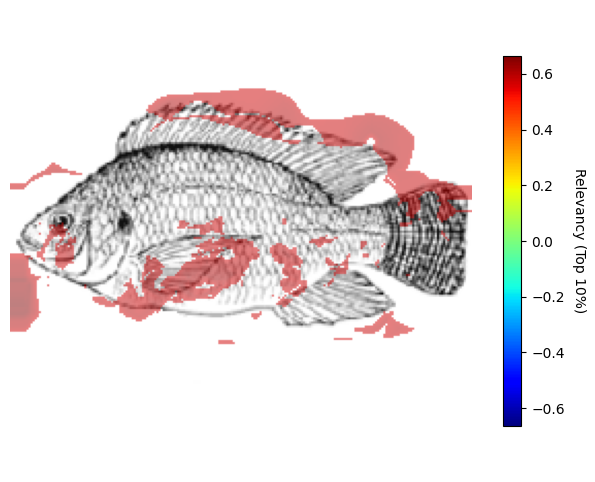
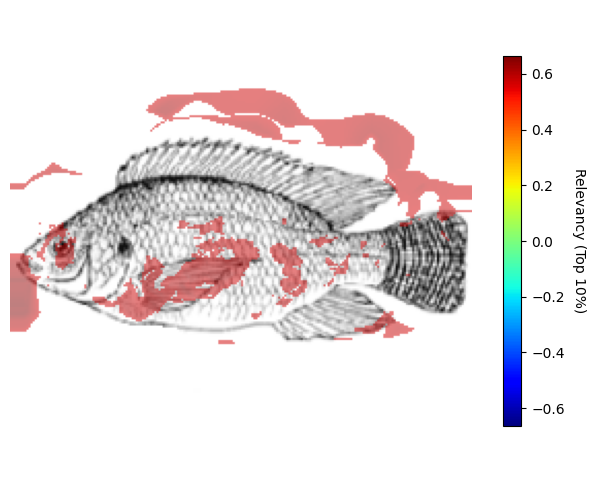
small changes. Modified fish sketch to better fit median dimensions

Changed region(s): [[0.0303, 0.1867, 0.7866, 0.7158]]

diff --git a/code/test.py b/code/test.py
@@ -1,18 +1,174 @@
 import os
-import shutil
+import numpy as np
+from PIL import Image
+import matplotlib.pyplot as plt
 from pathlib import Path
 
-# Move all files from subfolders to parent folder
-data_path = Path("/home/julian/Documents/Spezialisierung/SPEZ/data/animal_data")
-
-for file_path in data_path.rglob("*"):
-    if file_path.is_file() and file_path.parent != data_path:
-        shutil.move(str(file_path), str(data_path / file_path.name))
-
-# Remove empty subdirectories
-for dir_path in data_path.iterdir():
-    if dir_path.is_dir():
+def overlay_all_images(folder_path, output_path=None, target_size=(224, 224), blend_mode='average'):
+    """
+    Overlay all images in a folder into one single image.
+    
+    Args:
+        folder_path: Path to folder containing images
+        output_path: Path to save overlayed image (optional)
+        target_size: Size to resize all images to (width, height)
+        blend_mode: 'average', 'multiply', 'screen', or 'max'
+    
+    Returns:
+        PIL Image object of the overlayed image
+    """
+    folder_path = Path(folder_path)
+    
+    # Get all image files
+    image_extensions = {'.jpg', '.jpeg', '.png', '.bmp', '.tiff', '.gif'}
+    image_files = [f for f in folder_path.iterdir() 
+                   if f.suffix.lower() in image_extensions]
+    
+    if not image_files:
+        print("No image files found!")
+        return None
+    
+    print(f"Found {len(image_files)} images")
+    
+    # Load and resize images
+    images = []
+    for img_path in sorted(image_files):
         try:
-            dir_path.rmdir()  # Only removes if empty
-        except OSError:
-            pass  # Directory not empty, skip
+            img = Image.open(img_path)
+            # Convert to RGB if needed
+            if img.mode != 'RGB':
+                img = img.convert('RGB')
+            # Resize to target size
+            img = img.resize(target_size, Image.Resampling.LANCZOS)
+            images.append(np.array(img))
+            print(f"Loaded: {img_path.name}")
+        except Exception as e:
+            print(f"Error loading {img_path.name}: {e}")
+    
+    if not images:
+        print("No valid images loaded!")
+        return None
+    
+    # Stack all images
+    image_stack = np.stack(images, axis=0)  # Shape: (num_images, height, width, 3)
+    
+    # Apply blending mode
+    if blend_mode == 'average':
+        overlayed = np.mean(image_stack, axis=0)
+    elif blend_mode == 'multiply':
+        overlayed = np.prod(image_stack / 255.0, axis=0) * 255
+    elif blend_mode == 'screen':
+        # Screen blend: 1 - (1-a) * (1-b)
+        normalized = image_stack / 255.0
+        result = 1.0
+        for img in normalized:
+            result = result * (1.0 - img) 
+        overlayed = (1.0 - result) * 255
+    elif blend_mode == 'max':
+        overlayed = np.max(image_stack, axis=0)
+    else:
+        overlayed = np.mean(image_stack, axis=0)
+    
+    # Convert back to PIL Image
+    overlayed = np.clip(overlayed, 0, 255).astype(np.uint8)
+    result_img = Image.fromarray(overlayed)
+    
+    # Save if output path provided
+    if output_path:
+        result_img.save(output_path, 'PNG', dpi=(300, 300))
+        print(f"Overlayed image saved to: {output_path}")
+    
+    print(f"Successfully overlayed {len(images)} images using {blend_mode} blend mode")
+    return result_img
+
+def combine_with_red_overlay(fish_image, overlay_image_path, output_path=None, alpha=0.5, red_intensity=255):
+    """
+    Combine a fish image with another image that's converted to red overlay.
+    
+    Args:
+        fish_image: PIL Image object of the fish (from overlay_all_images)
+        overlay_image_path: Path to the image to convert to red overlay
+        output_path: Path to save combined image (optional)
+        alpha: Transparency of red overlay (0.0 to 1.0)
+        red_intensity: Intensity of red color (0 to 255)
+    
+    Returns:
+        PIL Image object of the combined image
+    """
+    try:
+        # Load the overlay image
+        overlay_img = Image.open(overlay_image_path)
+        
+        # Convert to RGB if needed
+        if overlay_img.mode != 'RGB':
+            overlay_img = overlay_img.convert('RGB')
+        
+        # Resize overlay to match fish image size
+        overlay_img = overlay_img.resize(fish_image.size, Image.Resampling.LANCZOS)
+        
+        # Convert images to numpy arrays
+        fish_array = np.array(fish_image)
+        overlay_array = np.array(overlay_img)
+        
+        # Convert overlay to grayscale for intensity mapping
+        overlay_gray = np.mean(overlay_array, axis=2)
+        
+        # Create red overlay based on grayscale intensity
+        red_overlay = np.zeros_like(fish_array)
+        red_overlay[:, :, 0] = (overlay_gray / 255.0) * red_intensity  # Red channel
+        red_overlay[:, :, 1] = 0  # Green channel (empty)
+        red_overlay[:, :, 2] = 0  # Blue channel (empty)
+        
+        # Blend the images
+        combined = fish_array * (1 - alpha) + red_overlay * alpha
+        combined = np.clip(combined, 0, 255).astype(np.uint8)
+        
+        # Convert back to PIL Image
+        result_img = Image.fromarray(combined)
+        
+        # Save if output path provided
+        if output_path:
+            result_img.save(output_path, 'PNG', dpi=(300, 300))
+            print(f"Combined image saved to: {output_path}")
+        
+        print(f"Successfully combined fish image with red overlay (alpha={alpha})")
+        return result_img
+        
+    except Exception as e:
+        print(f"Error combining images: {e}")
+        return None
+
+# Updated usage example:
+if __name__ == "__main__":
+    folder_path = "/home/julian/Documents/Spezialisierung/SPEZ/data/images"
+    overlay_path = "/home/julian/Documents/Spezialisierung/SPEZ/data/overlayed_images.png"
+    red_overlay_image = "../data/oreochromis niloticus_modified2.png"  # The other image to make red
+    final_output = "/home/julian/Documents/Spezialisierung/SPEZ/data/final_combined.png"
+    
+    # First, create the overlayed fish image
+    fish_overlay = overlay_all_images(folder_path, overlay_path, 
+                                    target_size=(224, 224), 
+                                    blend_mode='average')
+    
+    if fish_overlay:
+        # Then combine it with the red overlay
+        final_image = combine_with_red_overlay(fish_overlay, 
+                                             red_overlay_image, 
+                                             final_output,
+                                             alpha=0.3,  # 30% red overlay
+                                             red_intensity=200)
+        
+        if final_image:
+            # Display both results
+            fig, (ax1, ax2) = plt.subplots(1, 2, figsize=(15, 7))
+            
+            ax1.imshow(fish_overlay)
+            ax1.set_title('Overlayed Fish Images')
+            ax1.axis('off')
+            
+            ax2.imshow(final_image)
+            ax2.set_title('Combined with Red Overlay')
+            ax2.axis('off')
+            
+            plt.tight_layout()
+            plt.show()

diff --git a/code/visualize.py b/code/visualize.py
@@ -6,7 +6,7 @@ from matplotlib.offsetbox import OffsetImage, AnnotationBbox
 from matplotlib import cm
 from skimage.transform import resize
 
-from config import cutoffWeightAttention, transparencyAboveCutoff, cmapType, resultsFolder, classes, relevancyOperations, pathImages, percentile
+from config import cutoffWeightAttention, transparencyAboveCutoff, cmapType, resultsFolder, classes, relevancyOperations, pathImages, percentile, sampleImagePath
 
 def boxCoordinates(i, xLim, yLim, rows, cols):
     offsetX = xLim / cols
@@ -90,7 +90,7 @@ def visualizeAttentionMap(attentionMapDict, saveImages = False):
         if next(iter(attentionMapDict.keys())) == "summary": summary=True       #check for average visualization
         
         if summary:
-            fishImage = mpimg.imread("../data/oreochromis niloticus_modified.png")
+            fishImage = mpimg.imread(sampleImagePath)
         else:
             fishImage = mpimg.imread(os.path.join(pathImages, imageName))
         if fishImage.ndim == 2:       #if greyscale
@@ -144,7 +144,10 @@ def visualizeAttentionMap(attentionMapDict, saveImages = False):
         ax.axis("off")
 
         if saveImages:
-            savePath = os.path.join(resultsFolder, "attentionMap", f"{imageName}_attentionMap.png")
+            if summary:
+                savePath = os.path.join(resultsFolder, "summary", f"{imageName}_attentionMap.png")
+            else:
+                savePath = os.path.join(resultsFolder, "attentionMap", f"{imageName}_attentionMap.png")
             plt.savefig(savePath, dpi = 100, bbox_inches='tight')
             #print(f"image {savePath} was saved")
             plt.close()
@@ -193,7 +196,7 @@ def combineRelevancyMaps(mapDict):
     def saveHeatmap(array, className, operationName):
         fishImagePath = os.path.join(pathImages, f"{className}01.jpg")
         if className == "allClasses":
-            fishImagePath = "../data/oreochromis niloticus_modified.png"
+            fishImagePath = sampleImagePath
         
         savePath = os.path.join(resultsFolder, "summary")
         

diff --git a/code/relevancy.py b/code/relevancy.py
@@ -7,7 +7,7 @@ import matplotlib.gridspec as gridspec
 from matplotlib import image as mpimg
 import visualize
 
-from config import relevancyOperations, cmapType, resultsFolder, topPercentile, lowPercentile, pathImages
+from config import relevancyOperations, cmapType, resultsFolder, topPercentile, lowPercentile, pathImages, sampleImagePath
 
 def combineAttentionWeight(weights, features, labels, attention, tokens):
     relevancyMaps = {}
@@ -101,7 +101,7 @@ def relevancySubstractions(classRelevancies):
                     global_vmin = min(global_vmin, vmin)
                     global_vmax = max(global_vmax, vmax)
 
-                    fishImagePath = "../data/oreochromis niloticus_modified.png"
+                    fishImagePath = sampleImagePath
                     combinedImage = visualize.overlayFishWithRelevancy(fishImagePath, resultFiltered, vmin, vmax, 0.5)
                     
                     # Display the overlay image
@@ -126,7 +126,7 @@ def relevancySubstractions(classRelevancies):
     sm.set_array([])
     
     cbar = fig.colorbar(sm, cax=cbar_ax)
-    cbar.set_label('Relevancy Difference', rotation=270, labelpad=15)
+    cbar.set_label(f"Relevancy Difference Top{topPercentile}%", rotation=270, labelpad=15)
     
     plt.tight_layout()
     savePath = os.path.join(resultsFolder, "summary", "subtractive_relevancyMap.png")

diff --git a/code/config.py b/code/config.py
@@ -17,6 +17,7 @@ cmapType = "jet"
 #cmapType = "seismic"
 resultsFolder = "../results"
 #resultsFolder = "../results animals"
+sampleImagePath = "../data/oreochromis niloticus_modified2.png"
 
 #analysis
 relevancyOperations = {
@@ -26,7 +27,7 @@ relevancyOperations = {
     "max" : False
 }
 #summarized Relevancy
-percentile = 20
+percentile = 10
 #Subtractive Relevancy
 topPercentile = 10
 lowPercentile = 0
